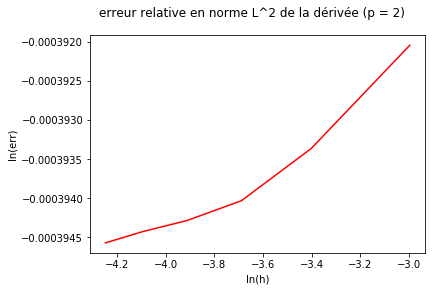
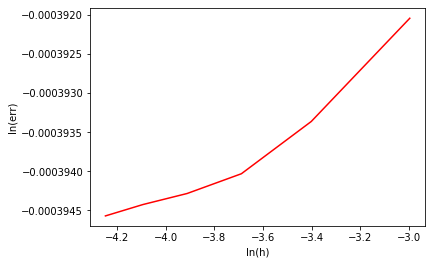
producing some graphs

diff --git a/EL_2D_P1.py b/EL_2D_P1.py
@@ -341,9 +341,8 @@ fig = plt.figure()
 #
 fig2 = plt.figure()
 plt.plot(X[1:-1], Y_analytical_derivative[1:-1], color='r')
-plt.xlabel('x')
 plt.plot(X[1:-1], Y_approximate_derivative[1:-1], color='b')
-
+plt.xlabel('x')
 plt.show()
 #'''
 
@@ -362,12 +361,12 @@ def L_2_norm(f, nb_points=1000, a=0, b=1):
     return (np.trapz(Y, X))**(1/2)
 
 
-X = [i*10 for i in range(2, 8)]
+X = [10,11,12,13,14,15,16,17,18,19,20,21,22,23,24,25,26,27,28,29,31,32,35,40,50,60,70]
 H = [R/x for x in X]
 error_u_list = []
 error_u_derivative_list = []
 e = np.exp(1)
-p = 2
+p = 6
 for N in X:
     print("N = ", N)
     U = assemble_U(N, N)
@@ -381,7 +380,8 @@ for N in X:
 
 fig_4 = plt.figure()
 plt.plot(np.log(H), np.log(error_u_derivative_list), color='r')
-fig_4.suptitle('erreur relative en norme L^2 de la dérivée (p =7)')
+#plt.plot(H, error_u_derivative_list, color='r')
+
 plt.xlabel('ln(h)')
 plt.ylabel('ln(err)')
 
